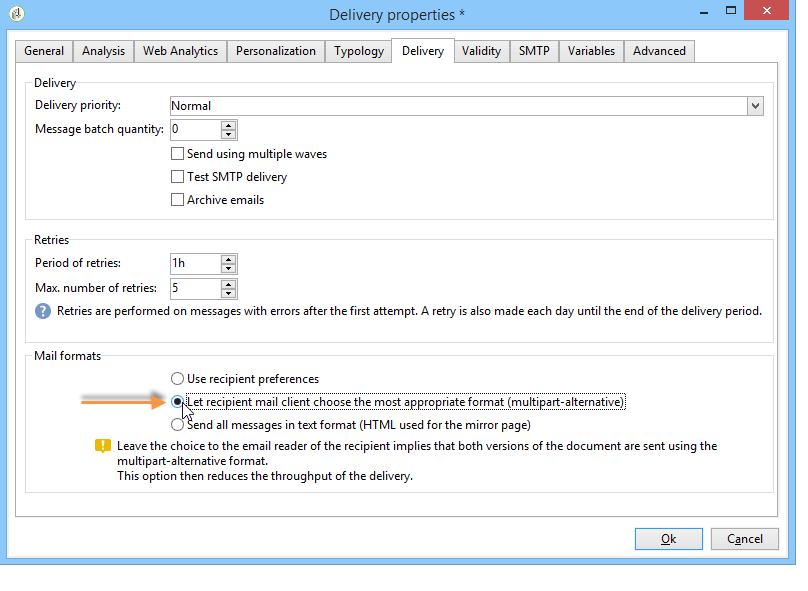
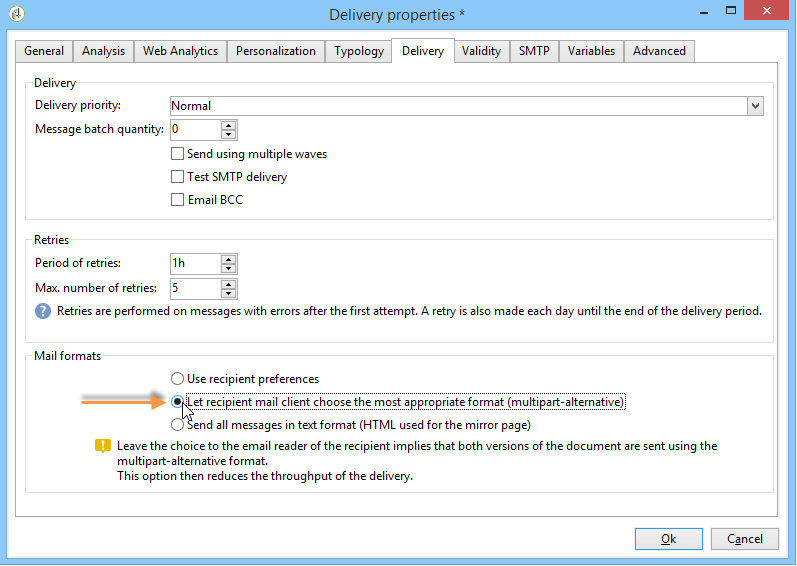
small changes

Changed region(s): [[0.0, 0.0, 1.0, 1.0]]

diff --git a/help/installation/using/email-archiving.md b/help/installation/using/email-archiving.md
@@ -95,7 +95,7 @@ Make sure you adjust these parameters according to the email sending throughput.
 
 ## Configuring the BCC email address (on premise) {#configuring-the-bcc-email-address--on-premise-}
 
->[!CAUTION]
+>[!IMPORTANT]
 >
 >For privacy reasons, BCC emails must be processed by an archiving system capable of storing securely personally identifiable information (PII).
 
@@ -118,7 +118,7 @@ In the **config- `<instance name>.xml`** file, use the following parameters to d
 
 ## Moving to the new Email BCC {#updated-email-archiving-system--bcc-}
 
->[!CAUTION]
+>[!IMPORTANT]
 >
 >The email archiving system (BCC) changed with Adobe Campaign 17.2 (build 8795). If you are upgrading from an older build and were already using email archiving capabilities, you must upgrade manually to the new email archiving system (BCC).
 

diff --git a/help/delivery/using/sending-with-enhanced-mta.md b/help/delivery/using/sending-with-enhanced-mta.md
@@ -114,7 +114,7 @@ For more on MX configuration, see [this section](../../installation/using/email-
 
 ### Bounce qualification
 
-The bounce qualifications in the Campaign [!UICONTROL Delivery log qualification] table are no longer used. The Enhanced MTA determines the bounce type and qualification, and sends back that information to Campaign.
+The bounce qualifications in the Campaign **[!UICONTROL Delivery log qualification]** table are no longer used. The Enhanced MTA determines the bounce type and qualification, and sends back that information to Campaign.
 
 >[!NOTE]
 >

diff --git a/help/delivery/using/email-parameters.md b/help/delivery/using/email-parameters.md
@@ -83,7 +83,7 @@ In the delivery properties, the **[!UICONTROL Mode]** field of the **[!UICONTROL
 
 ![](assets/s_ncs_user_wizard_miror_page_mode.png)
 
->[!CAUTION]
+>[!IMPORTANT]
 >
 >An HTML content must have been defined for the delivery for the mirror page to be created.
 
@@ -127,7 +127,7 @@ The script entered in this window must reference one header per line in the foll
 
 Values are encoded automatically if necessary.
 
->[!CAUTION]
+>[!IMPORTANT]
 >
 >Adding a script for inserting additional SMTP headers is reserved for advanced users.
 >
